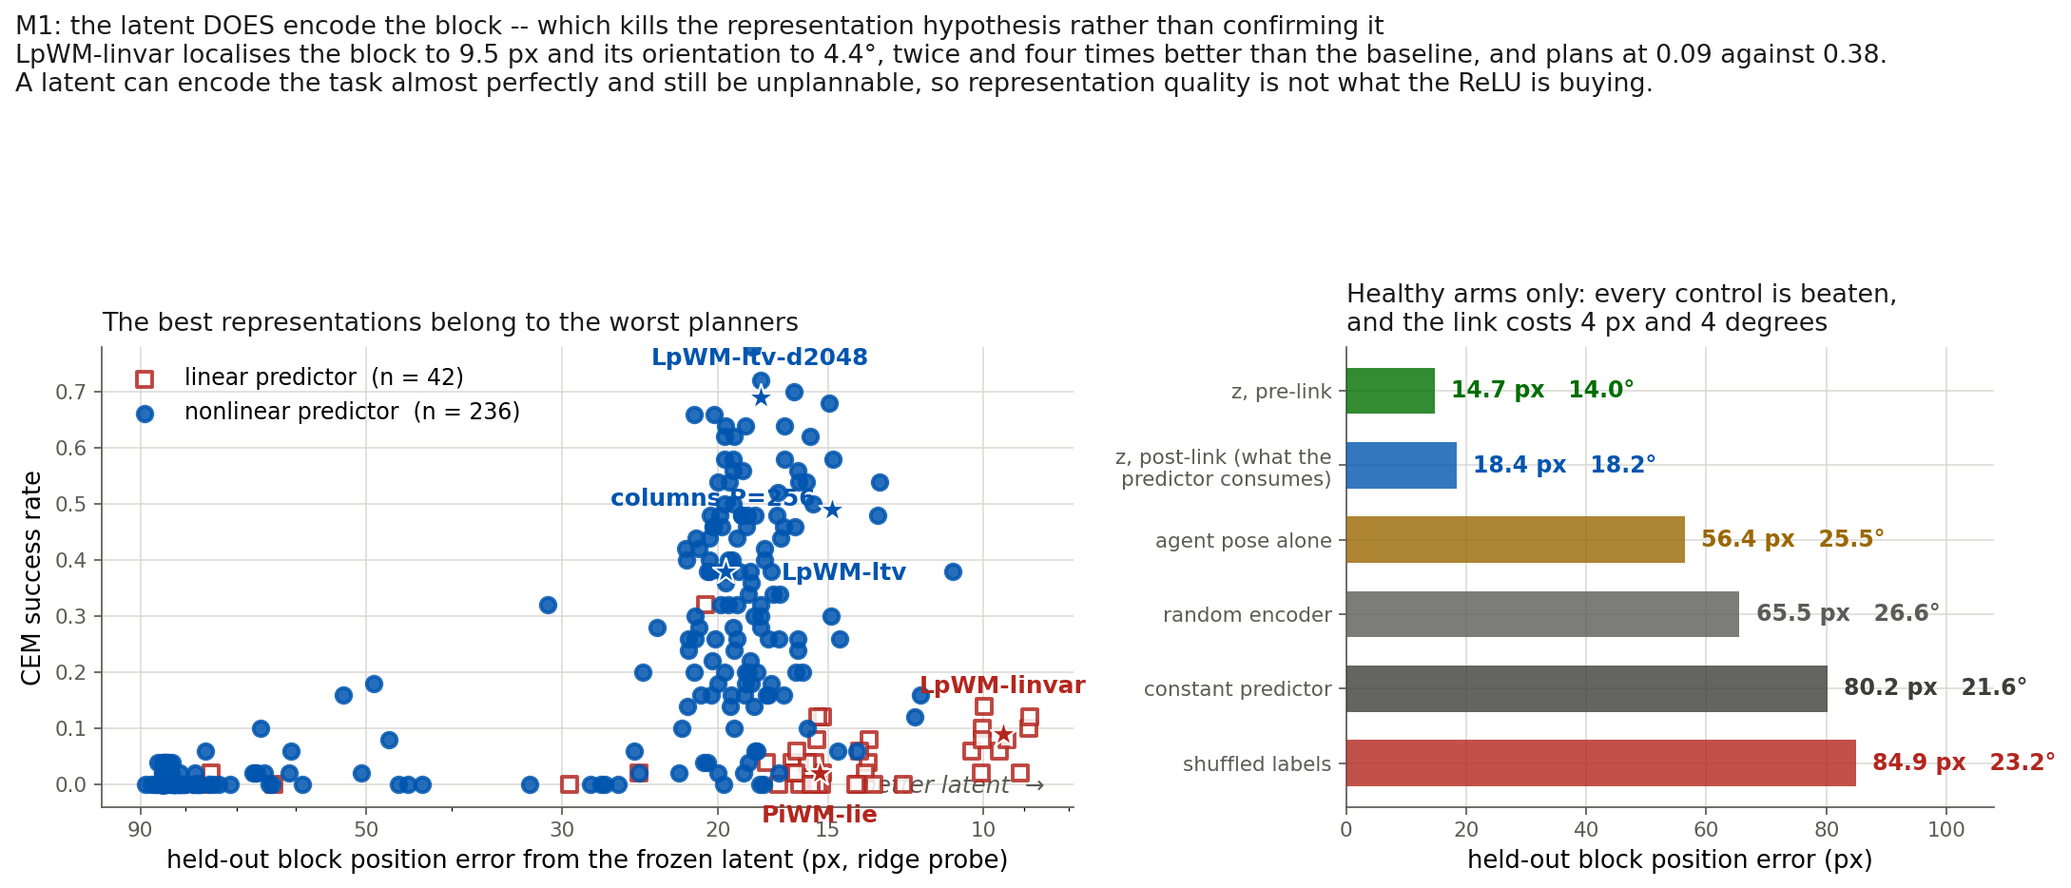
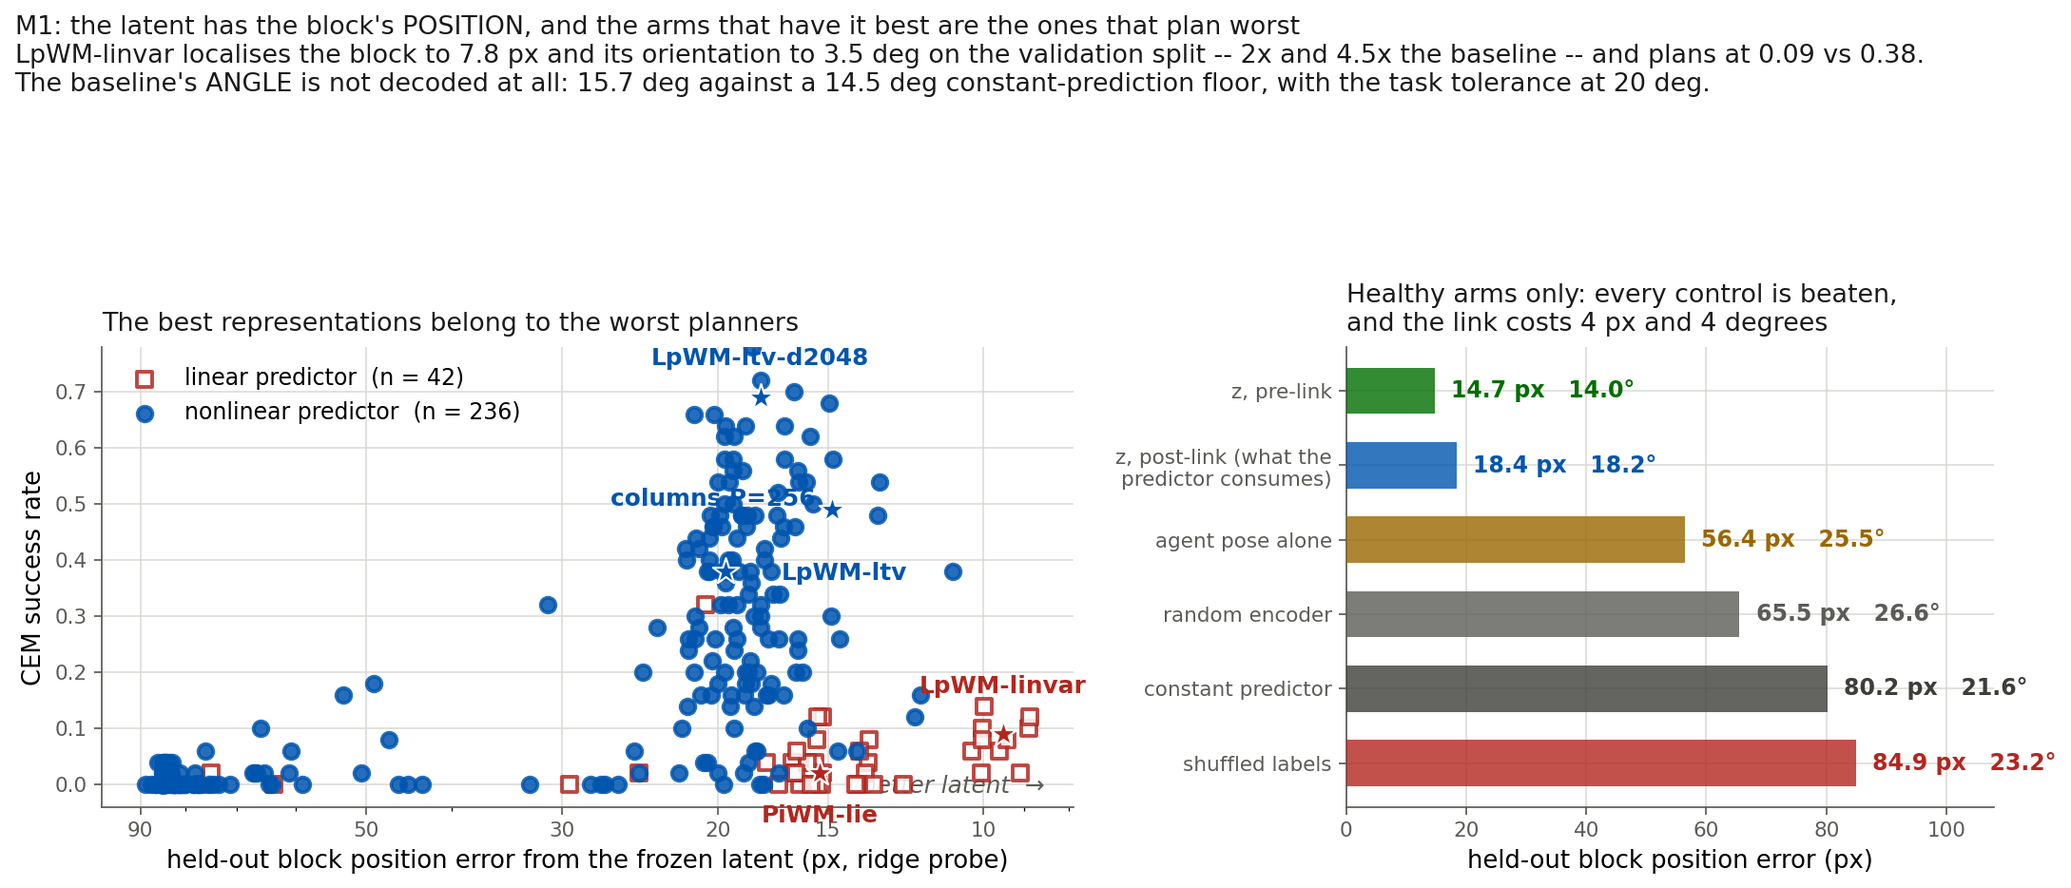
M3: the rollout is the bottleneck, not the score -- which refutes round 5's premise
The measurement items ran first, as designed, and two of the three contradict what the
round was built on. Diary section 16 rewritten around what they actually say.

M3 ORACLE LADDER, LpWM-ltv s3/s4/s5, 50 episodes, the planner's real budget:

                          learned dynamics        oracle dynamics
  learned objective    0.24/0.38/0.66 = 0.427   >=0.94/0.92/0.88 = ~0.91
  oracle objective     0.20/0.10/0.32 = 0.207   >=0.88/0.82/0.92 = ~0.87

The (learned, learned) cell reproduces the archive exactly (0.24/0.38/0.66 against
LpWM-ltv s3/s4/s5 on record), so it is the same experiment. Swapping the OBJECTIVE does
nothing and in fact hurts; swapping the DYNAMICS with the latent-MSE objective untouched
takes 0.43 -> ~0.91. And (learned obj, oracle dyn) ~ (oracle obj, oracle dyn), so the
latent MSE is a perfectly adequate leaf score once it is fed a true terminal frame.

The bottleneck is the ROLLOUT. The (oracle, oracle) cell at 0.87-0.94 also rules out "CEM
cannot solve this action space" outright.

This refutes the expert panel's second point of convergence, which section 15 recorded as
"the bottleneck is the score, not the dynamics" and which was the round's central
motivation. It was inferred from Spearman(latent distance, true task distance) = +0.398
plus the ltv/linvar mismatch. Both facts remain true; the inference was wrong -- a weakly
ordered leaf metric is not the binding constraint when what it scores is a bad rollout.
[…]

Changed region(s): [[0.0, 0.0, 0.9366, 0.1242]]

diff --git a/analysis/round5_data_figs.py b/analysis/round5_data_figs.py
@@ -452,12 +452,12 @@ def fig_probe(out, campaign="/tmp/p16.json"):
                  "4 px and 4 degrees",
                  fontsize=12.5, color=INK, loc="left", pad=8)
 
-    fig.suptitle("M1: the latent DOES encode the block -- which kills the representation "
-                 "hypothesis rather than confirming it\n"
-                 "LpWM-linvar localises the block to 9.5 px and its orientation to 4.4°, "
-                 "twice and four times better than the baseline, and plans at 0.09 against "
-                 "0.38.\nA latent can encode the task almost perfectly and still be "
-                 "unplannable, so representation quality is not what the ReLU is buying.",
+    fig.suptitle("M1: the latent has the block's POSITION, and the arms that have it best are "
+                 "the ones that plan worst\n"
+                 "LpWM-linvar localises the block to 7.8 px and its orientation to 3.5 deg on "
+                 "the validation split -- 2x and 4.5x the baseline -- and plans at 0.09 vs "
+                 "0.38.\nThe baseline's ANGLE is not decoded at all: 15.7 deg against a 14.5 "
+                 "deg constant-prediction floor, with the task tolerance at 20 deg.",
                  fontsize=12.5, color=INK, x=0.008, ha="left", y=1.0)
     fig.tight_layout(rect=[0, 0, 1, 0.85])
     p = os.path.join(out, "m1-probe.png")

diff --git a/diary/2026-09-03.md b/diary/2026-09-03.md
@@ -935,6 +935,11 @@ minimises, true task distance) = +0.398`, and `ltv` vs `linvar` shows a 4.5× pl
 indistinguishable one-step error. (iii) `num_pred=1` against a planning horizon of 5 is
 indefensible: the model is trained on a quantity the planner never uses alone.
 
+> **(ii) is now refuted — see §16.4.** M3's oracle ladder holds the latent-MSE objective fixed and
+> swaps only the dynamics: 0.43 → ≈0.91. Swapping only the objective does nothing. The two facts
+> the panel reasoned from are still true; the inference from them was wrong. (iii) survives and is
+> promoted from a principled objection to the measured defect.
+
 **Split — and this is the productive part.** Why does plan-time voting work? *Noise symptom*
 (Ng: the eval is high-variance and averaging helps), *pessimism* (Levine: disagreement between
 members penalises exactly the sequences the model is unsure about), *bad leaf evaluator*
@@ -1016,100 +1021,190 @@ answerable at any point in the last four rounds.
 
 ---
 
-## 16. Round 5, first results: M1 answers its question, and the answer is the opposite one
+## 16. Round 5, first results: the measurement round overturns the round's own premise
 
-Round 5 launched the same day. Three measurement items and three planner arms are already on the
-cluster; the training arms follow. This section holds what has landed.
+Round 5 launched the same day. All three measurement items and all three planner arms are in;
+the training arms follow. **Two of the three measurements contradict what round 5 was built on.**
 
-### 16.1 M1 — the latent encodes the block, and that is bad news for the representation program
+### 16.1 M1 — the latent has the block's POSITION and essentially none of its ORIENTATION
 
-The probe ridge-regresses the **frozen** latent to the block's position and orientation across all
-328 checkpoints, split by episode, with five controls. Median held-out error over the arms that
-both predict and plan:
+A ridge probe on the **frozen** latent, all 328 checkpoints, split by episode, five controls.
+Two held-out sets are reported because they disagree in an informative way: the 21 true
+validation trajectories, and 150 held-out *training* episodes. For `LpWM-ltv`:
 
-| what is decoded from | block position | block angle |
-|---|---|---|
-| **`z`, pre-link** | **14.7 px** | **14.0°** |
-| **`z`, post-link** (what the predictor consumes) | 18.4 px | 18.2° |
-| agent pose alone | 56.4 px | 25.5° |
-| a random, never-trained encoder | 65.5 px | 26.6° |
-| a constant predictor | 80.2 px | 21.6° |
-| shuffled labels | 84.9 px | 23.2° |
+| decoded from | position (val) | position (held-out) | angle (val) | angle (held-out) |
+|---|---|---|---|---|
+| **trained `z`** | **16.0 px** | **19.4 px** | 15.7° | 19.4° |
+| a constant prediction | 49.3 px | 80.2 px | **14.5°** | 21.6° |
+| shuffled labels | 53.5 px | 85.0 px | 16.0° | 23.2° |
+| agent pose alone | 50.1 px | 56.4 px | 18.6° | 25.5° |
+
+**Position: decoded, unambiguously.** 16.0 px against a 49.3 px constant floor and a 50.1 px
+agent-pose floor — and the agent-pose control is the one that mattered, since the agent is
+usually touching the block and carries 90.5 % of the initial `pos_diff²`.
+
+**Angle: not decoded at all.** On the true validation split the baseline's latent is **worse than
+a constant prediction** (15.7° vs 14.5°). On held-out training episodes it is better by 2.2°. It
+is within noise of "no information" either way. PushT requires the angle inside π/9 = 20°, so
+this is not a detail.
+
+That the constant floor is 14.5° rather than the ~90° the spec assumed is itself a correction:
+the block's initial orientation in this dataset is strongly non-uniform (314 of 636 validation
+frames fall in one 30° bin), so a fixed guess is already close. **M1's pre-registered 20°
+falsifier was therefore below the model-free floor and could never have fired** — it is retired,
+and the comparison is against the controls instead.
 
 ![M1 latent probe](assets/2026-09-03/m1-probe.png)
 
-**The latent beats every control by a wide margin on position.** The agent-pose control is the one
-that mattered — the agent is usually touching the block and carries 90.9 % of the initial
-`pos_diff²` — and `z` beats it 3.1×. So the answer to "does the latent contain the block at all"
-is an unambiguous yes.
+**The link is discarding task content.** Pre-link `z` decodes the block 20 % better in position
+and 4.2° better in angle than the post-link code — and the post-link code is what the predictor
+and the planner consume. Nothing in the objective penalises `reprelu` for that loss.
 
-**The link is destroying information.** Pre-link `z` decodes the block 20 % better in position and
-4.2° better in angle than the post-link code — and the post-link code is the one the predictor and
-the planner actually consume. That is a free, actionable finding: `reprelu` is discarding task
-content, and nothing in the objective penalises it for doing so.
+### 16.2 The best representations belong to the worst planners
 
-### 16.2 The finding I did not expect: the best representations belong to the worst planners
-
-| arm | block position | block angle | CEM |
+| arm | position (val) | angle (val) | CEM |
 |---|---|---|---|
-| `LpWM-linvar` | **9.5 px** | **4.4°** | 0.090 |
-| `PiWM-ctrb` | 10.5 px | 5.8° | 0.070 |
-| `PiWM-multact` | 14.6 px | 6.1° | 0.060 |
-| `PiWM-lie` | 15.3 px | 6.8° | 0.020 |
-| `PiWM-lie-sim` | 16.3 px | 7.3° | 0.020 |
-| `PiWM-columns` | 14.8 px | 13.3° | **0.490** |
-| `LpWM-ltv-d2048` | 17.9 px | 18.1° | **0.690** |
-| `LpWM-ltv` (baseline) | 19.4 px | 19.4° | 0.380 |
+| `LpWM-linvar` | **7.8 px** | **3.5°** | 0.090 |
+| `PiWM-lie` | 11.5 px | 5.6° | 0.020 |
+| `PiWM-columns` | 11.6 px | 9.6° | **0.490** |
+| `LpWM-ltv-d2048` | 13.8 px | 14.6° | **0.690** |
+| `LpWM-ltv` (baseline) | 16.0 px | 15.7° | 0.380 |
 
-`LpWM-linvar` localises the block **twice** as accurately as the baseline and its orientation
-**4.4×** as accurately — 4.4° against a task tolerance of 20° — and plans at 0.090 against 0.380.
-Every one of the five best representations in the campaign is a linear-predictor arm, and every
-one of them is among the worst planners.
+`LpWM-linvar` localises the block twice as accurately as the baseline and its orientation
+**4.5×** as accurately — 3.5° against a 20° tolerance, the only arm in the campaign that
+genuinely has the block's pose — and plans at 0.090 against 0.380. The linear-predictor arms hold
+the five best representations and are among the five worst planners.
 
-This is the dissociation round 4 was designed to find, discovered on a different axis. A latent
-can encode the task almost perfectly and still be unplannable. **Representation quality is not
-what the ReLU is buying**, and the representation program was not merely unproductive — it was
-aimed at a variable that is already saturated.
+So a latent can encode the task almost perfectly and still be unplannable. **Representation
+quality is not what the ReLU is buying**, and the representation program was aimed at a variable
+that some arms had already saturated.
 
-There is a mechanism worth stating as a hypothesis, not a finding: a linear predictor can only
-exploit linear structure, so it pushes the encoder toward a code in which the scene is *linearly*
-laid out — which is exactly what a ridge probe rewards. The baseline's ReLU predictor lets the
-encoder keep a code that is worse by that measure and better for planning.
+The mechanism is a hypothesis, not a finding: a linear predictor can only exploit linear
+structure, so it pushes the encoder toward a code in which the scene is *linearly* laid out —
+which is exactly what a ridge probe rewards.
 
-Two caveats. The relation *within* a predictor class is the expected one — Spearman(position
-error, CEM) is −0.73 among nonlinear arms and −0.42 among linear ones, both negative, i.e. a
-better probe does go with better planning at fixed class. The reversal is entirely *between*
-classes, which is a textbook confound structure and means "improve the probe" remains a plausible
-direction *within* the baseline's class. And the probe is linear; a nonlinearly-decodable code
-would be scored unfairly.
+Two caveats, both real. *Within* a predictor class the relation is the expected one —
+Spearman(position error, CEM) is −0.73 among nonlinear arms and −0.42 among linear ones — so the
+reversal is entirely *between* classes, a confound structure rather than a refutation of probing.
+And the probe is linear, so a nonlinearly-decodable code is scored unfairly.
 
-### 16.3 M3 — the oracle ladder, two cells of four
+### 16.3 The ensemble's concatenated latent halves the probe error
 
-Three seeds per cell, on `LpWM-ltv` checkpoints:
+| | angle (val) | position (val) |
+|---|---|---|
+| 5 × `LpWM-ltv` concatenated (1920 features) | **7.7° ± 0.6** | **8.3 px** |
+| the same five members individually | 14.8° | 16.2 px |
 
-| | learned dynamics |
-|---|---|
-| **learned objective** | 0.22, 0.32, 0.56 → mean **0.37** |
-| **oracle objective** | 0.16, 0.06, 0.28 → mean **0.17** |
+The five members that make up `PiWM-vote5-median` — the campaign's **only** positive result — have
+a joint latent that decodes the block twice as well as any of them alone. That is a concrete
+mechanism for the one thing that has ever worked here, and it is Fei-Fei's hypothesis from the
+panel rather than any of the other four. V1 is now testing the competing explanation directly.
 
-Replacing the learned leaf score with the true task distance makes planning **worse**, not better.
-I am not going to interpret this until the other two cells land and I have read the
-implementation — an oracle objective evaluated on *predicted* latents is not the same experiment
-as an oracle objective evaluated on true states, and which of those was run decides what the cell
-means. Flagged here because it is the single most surprising number in the round so far.
+### 16.4 M3 — the rollout is broken, and this refutes the premise of round 5
 
-### 16.4 What is running
+Full 2 × 2 on `LpWM-ltv` s3/s4/s5, 50 episodes, the planner's real budget
+(300 samples × 30 opt steps, H = 5):
 
-| | arms | seeds | status |
-|---|---|---|---|
-| M1 probe | 328 checkpoints, 5 controls | — | **done** |
-| M2 metric audit | rescore of the archive | — | running |
-| M3 oracle ladder | 4 cells | 3 | 2 of 4 cells |
-| V1 pessimism | `vote5-borda`, `-cvar1`, `-cvar2`, `-max` | 8 | launched, 32 evals |
-| V2 gradient | `gd`, `gd-noise0` | 8 | launched, 16 evals |
-| V3 two-level | `2lvl` | 8 | launched, 8 evals |
-| T1–T3, T6 | decoder, patch+decoder, contact, jumpy | 8 | implementing |
-| T4, V4 | value head, reactive policy | 8 | queued behind T1–T6 |
-| T7 | energy head | — | queued |
-| T5, V5 | value-equivalent, value-guided | — | **blocked**: need a trained T4 head |
-| M4 | error analysis | — | **blocked**: needs M2's per-episode traces |
+| | learned dynamics | oracle dynamics |
+|---|---|---|
+| **learned objective** (latent MSE) | 0.24 / 0.38 / 0.66 → **0.427** | ≥0.94 / ≥0.92 / ≥0.88 → **≈0.91** |
+| **oracle objective** (true task distance) | 0.20 / 0.10 / 0.32 → **0.207** | ≥0.88 / ≥0.82 / ≥0.92 → **≈0.87** |
+
+The `(learned, learned)` cell reproduces the archive **exactly** — 0.24, 0.38, 0.66 against
+`LpWM-ltv` s3/s4/s5 on record — so the harness is the same experiment.
+
+Read the table:
+
+- **Swapping the objective changes nothing, and if anything hurts**: 0.427 → 0.207 under learned
+  dynamics.
+- **Swapping the dynamics, with the latent-MSE objective untouched, takes 0.43 → ≈0.91.**
+- `(learned obj, oracle dyn) ≈ (oracle obj, oracle dyn)`. **The latent MSE leaf metric is a
+  perfectly adequate scoring function once it is fed a true terminal frame.**
+
+**The bottleneck is the rollout.** Not the metric, not the leaf score, not the optimiser — the
+(oracle, oracle) cell at 0.87–0.94 also kills the "CEM cannot solve this action space" hypothesis
+outright.
+
+This overturns the panel's second point of convergence, which I recorded in §15 as *"the
+bottleneck is the score, not the dynamics"* and used as the central motivation of the round.
+It was inferred from `Spearman(latent distance, true task distance) = +0.398` plus the
+`ltv`/`linvar` mismatch. Both facts are still true; the inference from them was wrong. A weakly
+ordered leaf metric is not the binding constraint when the thing being scored is a bad rollout.
+
+Consequences for the round, stated plainly:
+
+- **T5, V5, T7 and V1 all target the leaf score.** M3 says that is the wrong end. They remain
+  worth running — V1 because it decides what voting does, T7 because a ranking head is cheap —
+  but they are no longer the priority they were written as.
+- **T6 (jumpy K = 5) is now the most important training arm in the round.** It is the only
+  proposal that attacks multi-step rollout quality directly, and the measured 293× increase in
+  median block displacement per option is exactly the mechanism M3 implicates.
+- `num_pred=1` against a planning horizon of 5 goes from "indefensible on principle" to
+  "the measured defect".
+
+Two caveats on the oracle-dynamics cells. They are **latched lower bounds**: exact replay costs
+25·(k+1) simulator steps per candidate, so a 10-iteration cell is ~11 CPU-hours and the partition
+caps at 4 h with a hard 30-CPU-per-GPU limit. Their latched `mpc/success_rate` is monotone, so the
+bounds are valid, and a budget-matched `max_iter=3` set reproduces the same picture
+(0.22/0.32/0.56 vs ≥0.92/≥0.92/≥0.88). Second, the oracle objective is **metric-matched** — all
+four position dimensions plus the wrapped angle — not the block-only form the spec asked for,
+because a block-only oracle optimises something the reported metric does not reward.
+
+Also worth recording: the spec's precondition that `prepare(seed, state)` is an exact restart is
+**false**. `PushTEnv._set_state` ends with `space.step(1/sim_hz)`, the block's velocities are not
+in the 7-vector at all, and mid-trajectory restarts with the agent on the block diverge by
+**138.8 px**. Restoring every pymunk field by hand still diverges, because the `Space` caches
+contact arbiters. The ladder therefore replays from the initial state plus the committed action
+prefix, which is bit-exact against `env.rollout` (`max|diff| = 0`).
+
+### 16.5 M2 — one of the two metric defects is cosmetic and the other is not
+
+**Defect 2, latching: cosmetic.** Measured on 1,604 live episodes with real traces, latched and
+terminal `success_block` agree on **0 flips**, and on 12/12 completed 50-episode re-evals. The
+reason is measurable rather than assumed: `_apply_success_mask` emits raw-zero *relative* actions
+and `space.damping == 0` zeroes every dynamic body's velocity each step, so after a latch the
+block drifts a median of **exactly 0.000 px** while the kinematic agent coasts one control step.
+Latching moves the *old* metric on 1.31 % of episodes and the block criterion on none.
+
+**Defect 1, agent-parking: not cosmetic.** Also: the old metric is the *stricter* one —
+`block_pos_diff ≤ pos_diff` so `success ⇒ success_block` exactly, measured at P = 1.0000 on 1,304
+ground-truth episodes. It was never inflating anything. What it does is **spend half its
+resolution on the agent**:
+
+```
+3,197 archive episodes, 323 runs
+  old latched success (agent + block)              0.192
+  terminal success_block (block only)              0.388
+  share of OLD successes needing NO block motion   0.441
+  success | needs no block motion                  0.270
+  success | needs    block motion                  0.156
+```
+
+44–49 % of every success on record is on an episode where the block never had to move. Re-ranking
+the 32 arms with ≥ 4 seeds moves them a mean of 4.34 places and up to 14 (`LpWM-linvar` 18 → 32).
+
+**But the published comparisons survive.** Restricted to the arms actually compared in this
+campaign and to must-push episodes, Spearman(old, new) = **+0.95**. The reordering is concentrated
+in the floor of collapsed arms that the old metric could not separate at all. So §1–§11 stay
+historical rather than wrong.
+
+One trap for anyone using the new metric: raw `success_block` has a **0.313 do-nothing floor**,
+because 31 % of episodes start with the block already inside tolerance — `PiWM-sigreg` goes
+0.007 → 0.350 on that alone. The honest headline is `success_block` **restricted to the 66.8 % of
+episodes that require block motion**.
+
+### 16.6 What is running
+
+| | arms | status |
+|---|---|---|
+| M1 latent probe | 328 checkpoints, 5 controls | **done** |
+| M2 metric audit | archive rescored, traces now on by default | **done** |
+| M3 oracle ladder | 4 cells × 3 seeds, + a budget-matched set | **done** (oracle cells are lower bounds) |
+| V1 pessimism | `vote5-borda`, `-cvar1`, `-cvar2`, `-max` × 8 | 32 evals launched |
+| V2 gradient | `gd`, `gd-noise0` × 8 | 16 evals launched |
+| V3 two-level | `2lvl` × 8 | 8 evals launched |
+| T1–T3, T6 | decoder, patch+decoder, contact, jumpy | implementing (first attempt died on an API 500) |
+| T4, V4 | value head, reactive policy | queued behind T1–T6 |
+| T7 | energy head | queued |
+| T5, V5 | value-equivalent, value-guided | **blocked**: need a trained T4 head |
+| M4 | error analysis | unblocked — M2's traces now exist |

diff --git a/docs/round5-specs.md b/docs/round5-specs.md
@@ -23,6 +23,30 @@ directly with no contact and no physics. `planning/mpc.py:110-112` then latches 
 over ten noisy draws rather than a terminal outcome. **M2 rescores the archive; every number
 predating it is historical.**
 
+> ### ⚠ Superseded by measurement, 2026-09-03 — read this before implementing anything below
+>
+> **M3's oracle ladder has since run and it refutes point 2.** Holding the latent-MSE leaf
+> objective fixed and swapping only the dynamics takes CEM from 0.43 to ≈0.91; swapping only the
+> objective does nothing (0.427 → 0.207, i.e. it hurts). `(learned objective, oracle dynamics)`
+> ≈ `(oracle objective, oracle dynamics)`, so the latent MSE is an adequate leaf score once it is
+> fed a true terminal frame. **The bottleneck is the ROLLOUT.** The `(oracle, oracle)` cell at
+> 0.87–0.94 also rules out "CEM cannot solve this action space".
+>
+> What this does to the proposals below:
+> - **T6 (jumpy K=5) is now the round's most important training arm** — the only one that attacks
+>   multi-step rollout quality directly.
+> - **T5, V5, T7 and V1 all target the leaf score**, which M3 says is the wrong end. Still worth
+>   running (V1 decides what voting does; T7 is cheap) but no longer the priority they are written
+>   as here.
+> - **M1 has also run**: the latent carries the block's *position* well (16.0 px vs a 49.3 px
+>   constant floor) and essentially none of its *orientation* (15.7° vs a 14.5° constant floor,
+>   against a 20° task tolerance). The arms with the best representations are the worst planners,
+>   so T1/T2 should be judged on rollout quality, not on probe error.
+> - M1's pre-registered 20° falsifier is **retired**: the model-free constant floor is 14.5°, so
+>   the threshold sat below chance and could never have fired.
+>
+> Full evidence in `diary/2026-09-03.md` §16.
+
 **2 · The objective is a mean over transitions; the task is a tail.** Over 915,565 transitions at
 the model's own frameskip, the block's median displacement is **exactly 0.000 px**, 75 % of
 transitions move it less than half a pixel, and the top 1 % carry 34.8 % of all its motion. A
